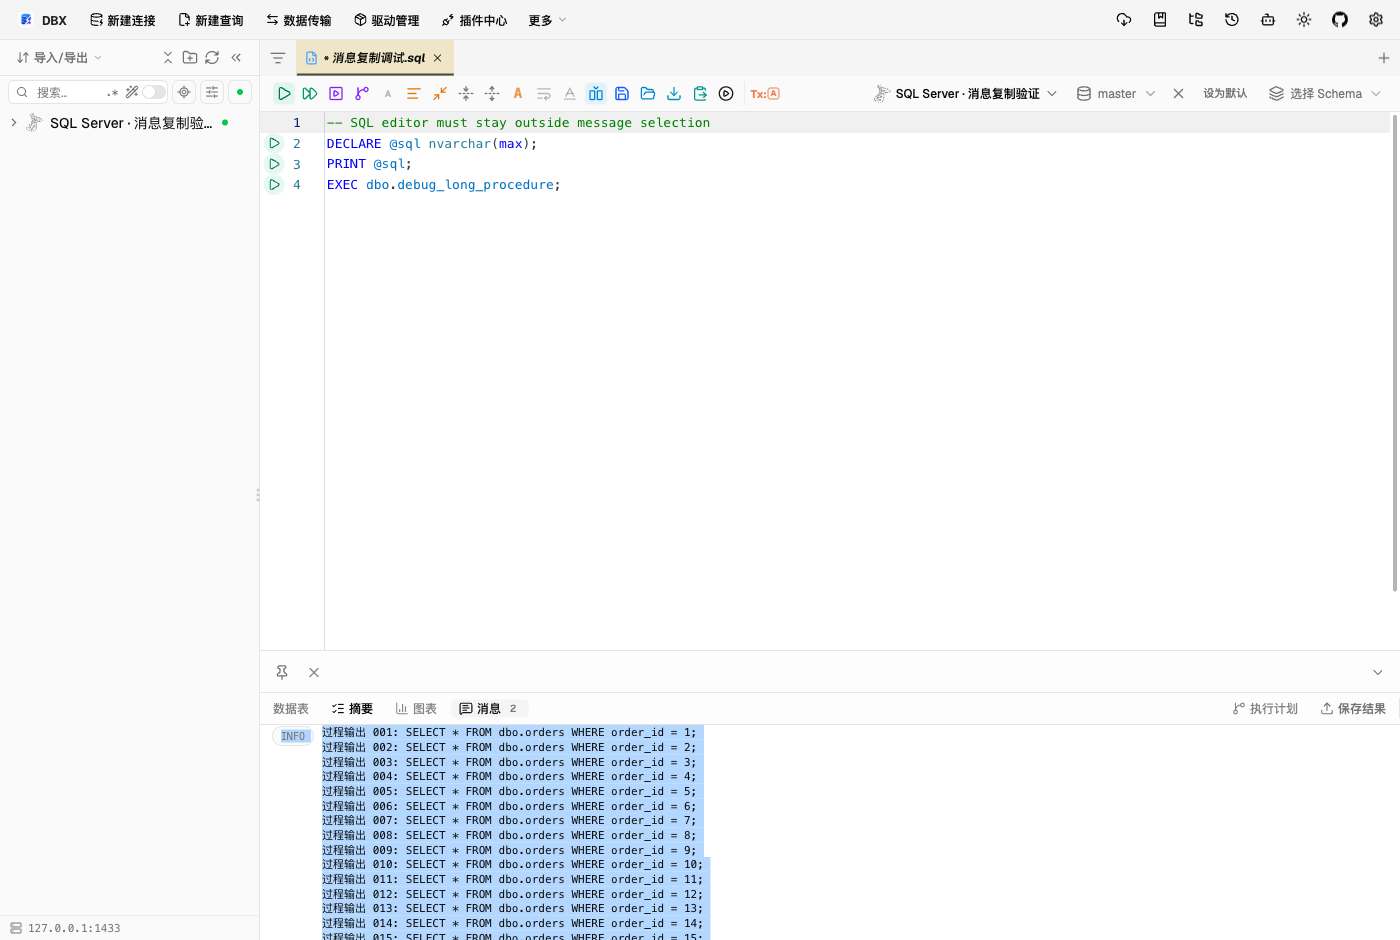
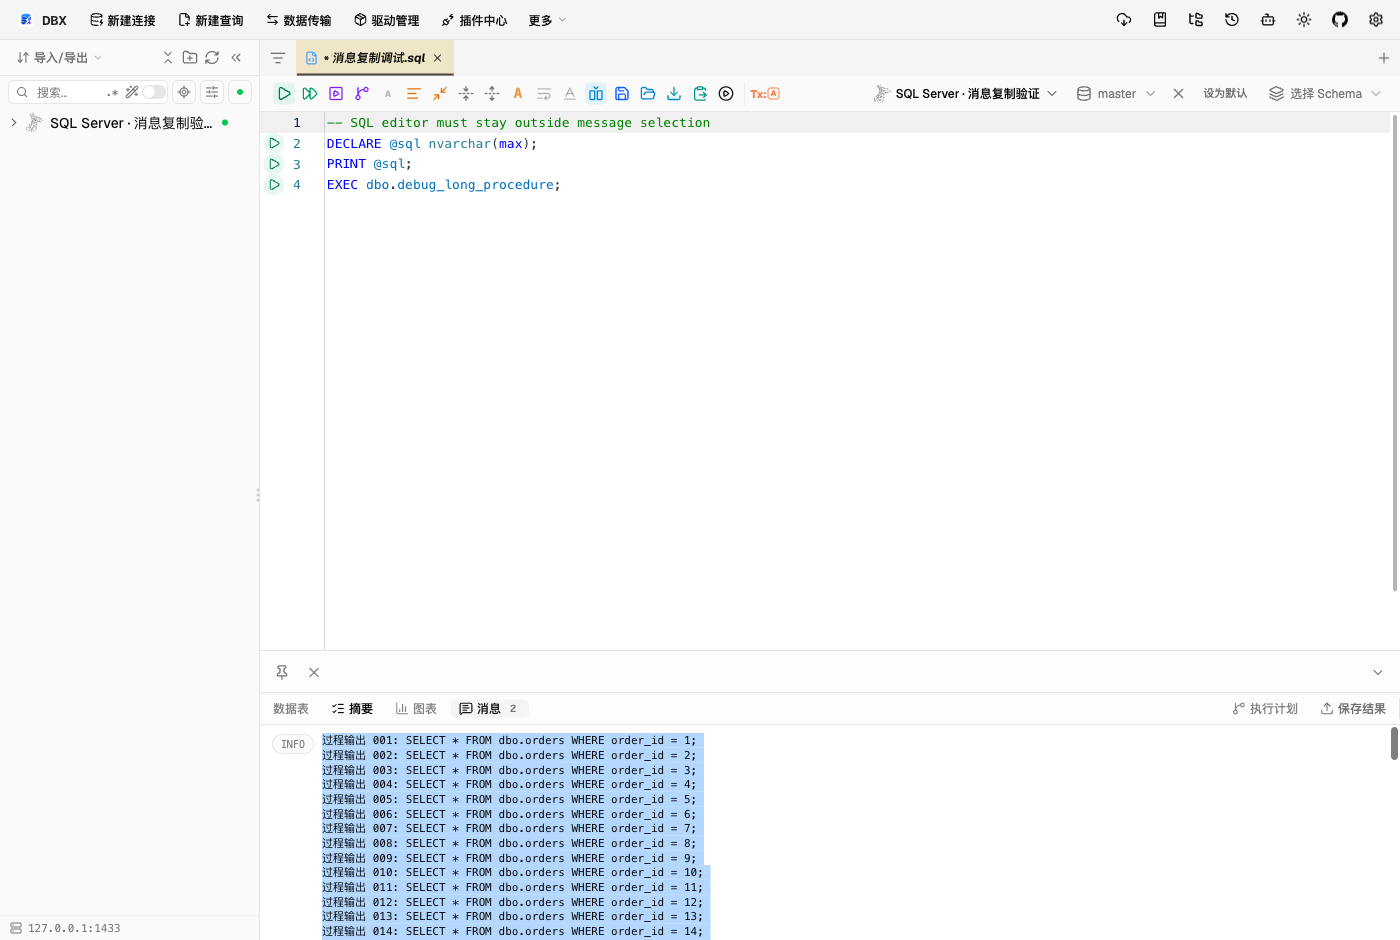
fix(query): exclude message decorations from copied output

Changed region(s): [[0.1843, 0.7713, 0.5221, 1.0], [0.9829, 0.7713, 1.0, 0.8021]]

diff --git a/apps/desktop/src/components/layout/QueryMessagesView.vue b/apps/desktop/src/components/layout/QueryMessagesView.vue
@@ -64,11 +64,11 @@ const severityBadgeClasses: Record<SeverityTone, string> = {
     </div>
     <div v-else ref="messageContentsRef" class="overflow-hidden">
       <div v-for="(message, index) in messages" :key="index" class="flex items-start gap-2 border-b px-3 py-2 text-xs last:border-b-0">
-        <Badge variant="secondary" class="mt-px shrink-0 font-mono text-[10px] uppercase" :class="severityBadgeClasses[severityTone(message.severity)]">
+        <Badge variant="secondary" class="mt-px shrink-0 select-none font-mono text-[10px] uppercase" :class="severityBadgeClasses[severityTone(message.severity)]">
           {{ message.severity }}
         </Badge>
         <div class="min-w-0 flex-1">
-          <div v-if="message.code === 'mongo-shell'" class="mb-1 flex items-center gap-2">
+          <div v-if="message.code === 'mongo-shell'" class="mb-1 flex select-none items-center gap-2">
             <span class="text-muted-foreground">{{ t("queryMessages.mongoShell") }}</span>
             <Button variant="ghost" size="sm" class="h-5 gap-1 px-1.5 text-[10px]" @click="copyShell(message.message)">
               <Copy class="h-3 w-3" />
@@ -78,7 +78,7 @@ const severityBadgeClasses: Record<SeverityTone, string> = {
           <div class="font-mono text-[11px] whitespace-pre-wrap break-words text-foreground">{{ message.message }}</div>
           <div v-if="message.detail" class="mt-0.5 font-mono text-[11px] whitespace-pre-wrap break-words text-muted-foreground">{{ message.detail }}</div>
           <div v-if="message.hint" class="mt-0.5 font-mono text-[11px] whitespace-pre-wrap break-words text-muted-foreground">{{ message.hint }}</div>
-          <div v-if="message.code && message.code !== 'mongo-shell'" class="mt-0.5 font-mono text-[10px] text-muted-foreground">{{ t("queryMessages.code", { code: message.code }) }}</div>
+          <div v-if="message.code && message.code !== 'mongo-shell'" class="mt-0.5 select-none font-mono text-[10px] text-muted-foreground">{{ t("queryMessages.code", { code: message.code }) }}</div>
         </div>
       </div>
     </div>
